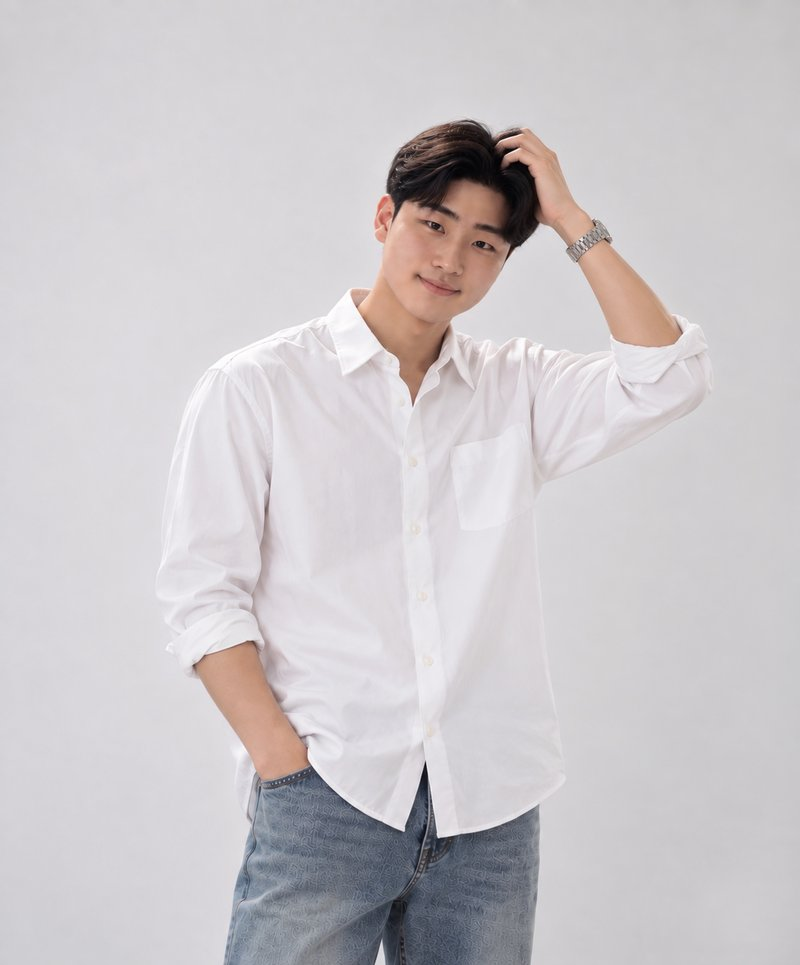
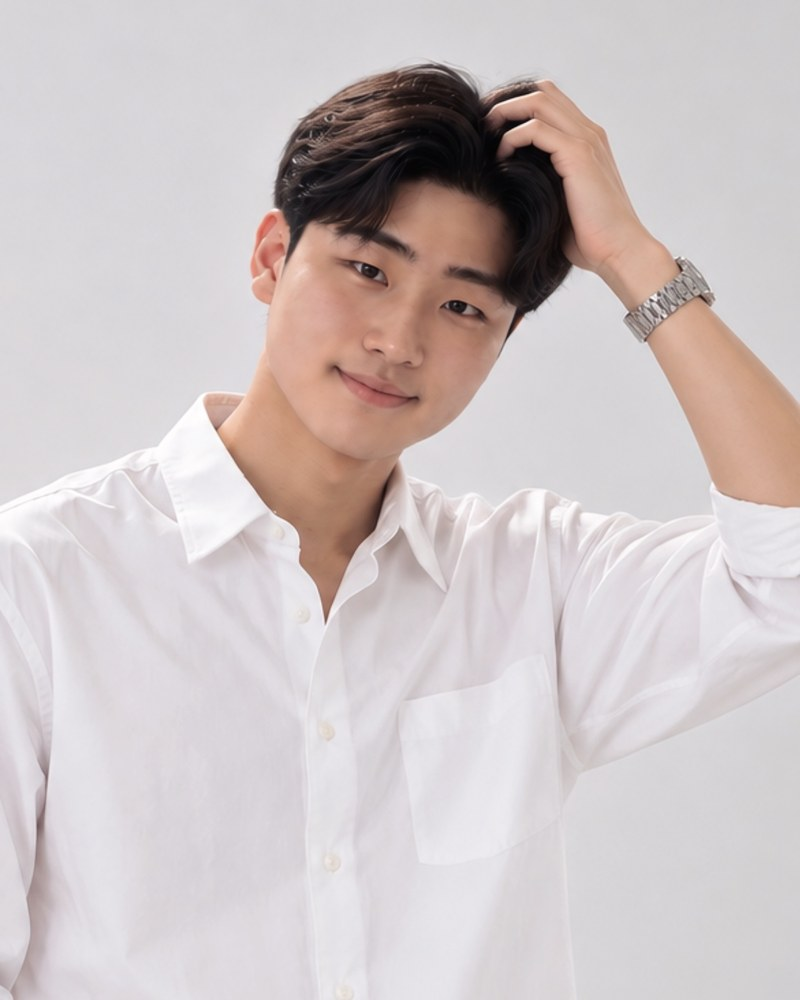
Align team photo crops to the Sang Hui-gyeong reference
All four photos are now 800x1000 (4:5) with the eye midpoint at (408, 283) and a similar face size, re-cropped from the originals.

diff --git a/README.md b/README.md
@@ -65,7 +65,7 @@ python -m http.server 8777
 
 ### pages/team/ 참고
 
-- 담당자 4명(상희경·이정민·성서아·홍시현)의 사진은 `assets/team-*.jpg`에 원본에서 가로 800px로 줄여 저장했습니다. 원본은 `Desktop/잡동/담당자 이미지/`에 있습니다. 담당자를 추가할 때는 `.pt-mem-card` 블록을 복사하고, `02-animations.html`의 `nth-child` 지연값과 `.pt-mem-grid` 열 수를 같이 조정하세요.
+- 담당자 4명(상희경·이정민·성서아·홍시현)의 사진은 `assets/team-*.jpg`에 **800x1000(4:5)** 으로 저장했습니다. 카드에서 얼굴 크기·위치가 같게 보이도록 **상희경 사진을 기준**으로 눈 중간점이 (408, 283), 눈 사이 거리가 약 113px이 되게 원본에서 다시 잘랐습니다. 사진을 추가·교체할 때도 이 기준에 맞춰 4:5로 자르세요. 원본은 `Desktop/잡동/담당자 이미지/`에 있습니다. 담당자를 추가할 때는 `.pt-mem-card` 블록을 복사하고, `02-animations.html`의 `nth-child` 지연값과 `.pt-mem-grid` 열 수를 같이 조정하세요.
 - 네비게이션 · 카카오톡 플로팅 버튼 · 30초 자가진단 팝업은 메인 페이지(`sections/00, 09, 10`)와 동일한 코드를 재사용했습니다.
 
 ## 후기·수치·사업자 정보 관리 (data/)
